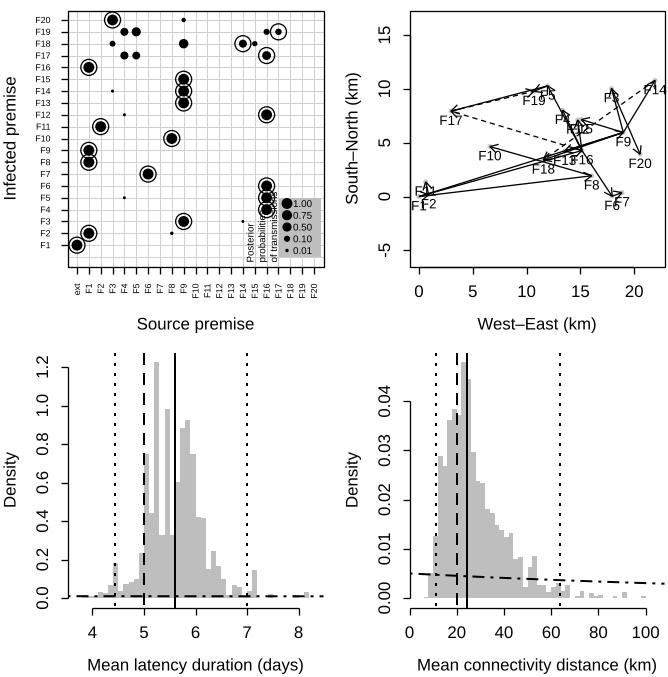
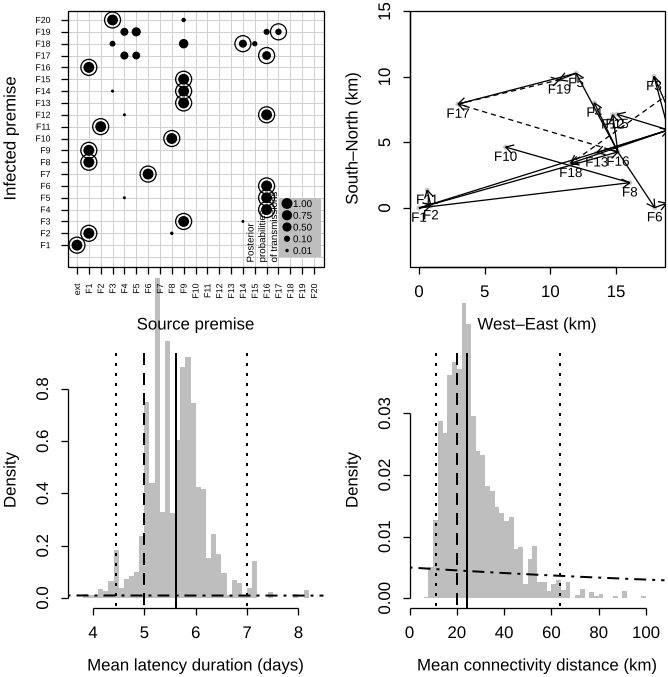
PMC3499255: Figs 2-4 on the paper's own axes
Every map and histogram now uses the axis limits measured from the
published ticks, so the scales are the same as the paper's: ticks land
within 1 px of the published ones on all 18 axes. Tick marks follow R's
axis code (GEPretty biases) and labels R's one-"m" skip rule, which
gives the paper's exact labels. What falls outside the paper's axes is
counted and recorded in the README.

Claude-Session: https://claude.ai/code/session_01SYtZvq5bybDnzbwBE6x4jU

diff --git a/PMC3499255/figure-reproduction/pipeline/render.py b/PMC3499255/figure-reproduction/pipeline/render.py
@@ -24,8 +24,8 @@ on the data, so that ours and the published figure overlay:
                      and printed, not drawn; ``xlim = range(breaks)``,
                      ``ylim = c(0, max(density))`` (the published height unless
                      ours is taller), R's 4% extension, axis ticks
-                     from ``pretty(usr, 5)`` with R's label formatting and a
-                     skipped label wherever two would collide; the exponential
+                     from R's axis code (GEPretty on usr) with R's label
+                     formatting, a label skipped within one "m" of the last; the exponential
                      priors: mean latency beta1 ~ Exp(mean 100) and mean distance
                      2 * alpha2 with alpha2 ~ Exp(mean 100), i.e. Exp(mean 200).
 
@@ -92,7 +92,10 @@ CONFIG = {
         map=dict(kind="km"),             # simulated: coordinates are already km
         label_pos=None,                  # below every point
         # histogram breaks (lo, hi, width) and max density, read from the published axes
-        hist=dict(lat=(3.7, 8.3, 0.1, 0.904), dist=(4.0, 104.0, 2.0, 0.0384)),
+        hist=dict(lat=(3.7, 8.3, 0.1), dist=(4.0, 104.0, 2.0)),
+        # axis limits (usr: xmin, xmax, ymin, ymax) of the map and the two histograms
+        usr=dict(TR=(-0.7234, 18.693, -4.466, 15.076), BL=(3.504, 8.487, -0.0364, 0.9397),
+                 BR=(0.0, 107.822, -0.0015, 0.0399)),
         show_true=True,
     ),
     "fig3": dict(
@@ -102,10 +105,12 @@ CONFIG = {
         order=["IP1b", "IP2b", "IP5", "IP4b", "IP3b", "IP3c", "IP6b", "IP7", "IP8"],
         # first premise (IP1b) in the paper's map km, and 1/cos(mean latitude)
         map=dict(kind="lonlat", first=(0.685, -1.339), east_scale=1.60236,
-                 ylabel_every=2),
+                 xlabel_every=2, ylabel_every=2),
         label_pos={"IP1b": (3, -8.0), "IP2b": 4, "IP3b": 4, "IP3c": 4, "IP4b": 1,
                    "IP5": 4, "IP6b": 2, "IP7": 2, "IP8": 4},
-        hist=dict(lat=(0.0, 220.0, 5.0, 0.0777), dist=(0.0, 155.0, 5.0, 0.0497)),
+        hist=dict(lat=(0.0, 220.0, 5.0), dist=(0.0, 155.0, 5.0)),
+        usr=dict(TR=(-2.258, 21.244, -2.207, 21.241), BL=(-9.324, 228.438, -0.003, 0.081),
+                 BR=(-6.565, 160.832, -0.0019, 0.0518)),
         show_true=False,
     ),
     "fig4": dict(
@@ -117,7 +122,9 @@ CONFIG = {
                  xlabel_every=2, ylabel_every=2),
         label_pos={"K": 3, "L": 4, "D": 4, "M": 1, "O": 1, "F": 3, "G": 2,
                    "I": 1, "J": 1, "E": 1, "C": 1, "P": 1},
-        hist=dict(lat=(10.0, 68.0, 1.0, 0.120), dist=(4.0, 142.0, 2.0, 0.0293)),
+        hist=dict(lat=(10.0, 68.0, 1.0), dist=(4.0, 142.0, 2.0)),
+        usr=dict(TR=(-1.171, 23.707, -4.254, 20.782), BL=(7.791, 70.368, -0.0046, 0.1251),
+                 BR=(-1.754, 147.307, -0.0011, 0.0305)),
         show_true=False,
     ),
 }
@@ -125,11 +132,15 @@ CONFIG = {
 
 # ------------------------------------------------------------------ R rules
 
-def r_pretty(lo: float, hi: float, n: int = 5, min_n: int | None = None) -> np.ndarray:
-    """R's pretty(): about n+1 equally spaced round values covering [lo, hi]."""
+def r_pretty(lo: float, hi: float, n: int = 5, min_n: int | None = None,
+             h: float = 1.5, h5: float = 0.5 + 1.5 * 1.5) -> np.ndarray:
+    """R's pretty(): about n+1 equally spaced round values covering [lo, hi].
+
+    h and h5 are its rounding biases: pretty() uses 1.5 and 2.75; the axis code
+    (GEPretty, which places the tick marks) uses 0.8 and 1.7.
+    """
     if min_n is None:
         min_n = n // 3
-    h, h5 = 1.5, 0.5 + 1.5 * 1.5
     dx = hi - lo
     if dx == 0 and hi == 0:
         cell, i_small = 1.0, True
@@ -181,8 +192,8 @@ def r_extend(lo: float, hi: float) -> tuple[float, float]:
 
 
 def r_axticks(u0: float, u1: float) -> np.ndarray:
-    """axTicks(): pretty(usr) kept inside usr."""
-    t = r_pretty(u0, u1, 5)
+    """The tick marks R's axis() draws: GEPretty on usr, kept inside usr."""
+    t = r_pretty(u0, u1, 5, min_n=1, h=0.8, h5=1.7)
     fuzz = 1e-7 * (u1 - u0)
     return t[(t >= u0 - fuzz) & (t <= u1 + fuzz)]
 
@@ -239,7 +250,11 @@ def _label_width(s: str, size: float) -> float:
     return sum(w.get(c, 0.556) for c in s) * size
 
 
-def _side1(p: Panel, at, labels, title, gap=5.5, size=EM, right_slack=1.0, left_slack=6.0, every=1):
+# R skips an axis label that comes closer than the width of one "m" to the last label it drew
+GAP = 0.833 * EM
+
+
+def _side1(p: Panel, at, labels, title, gap=GAP, size=EM, every=1):
     ax = p.ax
     xs = p.px(at)
     _line(ax, [xs[0], xs[-1]], [p.y1, p.y1])
@@ -249,14 +264,14 @@ def _side1(p: Panel, at, labels, title, gap=5.5, size=EM, right_slack=1.0, left_
         if i % every:
             continue
         w = _label_width(lab, size)
-        if x - w / 2 < last + gap or x + w / 2 > p.x1 + right_slack or x - w / 2 < p.x0 - left_slack:
+        if x - w / 2 < last + gap:
             continue
         _text(ax, x, p.y1 + LINE_TICKLAB, lab, size, ha="center", va="baseline")
         last = x + w / 2
     _text(ax, (p.x0 + p.x1) / 2, p.y1 + LINE_TITLE, title, size, ha="center", va="baseline")
 
 
-def _side2(p: Panel, at, labels, title, gap=8.0, size=EM, every=1):
+def _side2(p: Panel, at, labels, title, gap=GAP, size=EM, every=1):
     ax = p.ax
     ys = p.py(at)
     _line(ax, [p.x0, p.x0], [ys[0], ys[-1]])
@@ -362,10 +377,16 @@ def _map_panel(ax, box, post, cfg, true_tree):
     scale = min(w / (xmax - xmin), h / (ymax - ymin))
     xadd = 0.5 * (w / scale - (xmax - xmin))
     yadd = 0.5 * (h / scale - (ymax - ymin))
-    p = Panel(ax, box, (*r_extend(xmin - xadd, xmax + xadd), *r_extend(ymin - yadd, ymax + yadd)))
+    usr = (*r_extend(xmin - xadd, xmax + xadd), *r_extend(ymin - yadd, ymax + yadd))
+    usr = cfg["usr"]["TR"] if "usr" in cfg else usr      # the paper's axes
+    p = Panel(ax, box, usr)
     clip = p.clip()
     X, Y = p.px(x), p.py(y)
+    outside = [nm for nm, xi, yi in zip(names, x, y)
+               if not (usr[0] <= xi <= usr[1] and usr[2] <= yi <= usr[3])]
     for i in range(len(names)):
+        if names[i] in outside:
+            continue
         ax.add_patch(Circle((X[i], Y[i]), 2.5, color=POINT, lw=0, zorder=2))
     best = post["best_tree"]
     for i, s in enumerate(best):
@@ -377,6 +398,8 @@ def _map_panel(ax, box, post, cfg, true_tree):
                 _arrow(ax, X[s], Y[s], X[i], Y[i], ls=(0, (4, 3)), clip=clip)
     off = 0.3 * EM_MAP
     for i, nm in enumerate(names):
+        if nm in outside:
+            continue
         pos = (cfg["label_pos"] or {}).get(nm, 1)
         pos, dx = pos if isinstance(pos, tuple) else (pos, 0.0)   # (R pos, pixel nudge)
         X_i = X[i] + dx
@@ -392,26 +415,29 @@ def _map_panel(ax, box, post, cfg, true_tree):
     xt, yt = r_axticks(p.u[0], p.u[1]), r_axticks(p.u[2], p.u[3])
     _side1(p, xt, r_labels(xt), "West–East (km)", every=mcfg.get("xlabel_every", 1))
     _side2(p, yt, r_labels(yt), "South–North (km)", every=mcfg.get("ylabel_every", 1))
+    return dict(outside=outside, n=len(names))
 
 
 def _breaks(s, pub):
-    """The paper's breaks and height; without them R's default here, pretty(range(x), 50)."""
+    """The paper's breaks; without them R's default here, pretty(range(x), 50)."""
     if pub is None:
-        return r_pretty(s.min(), s.max(), 50, min_n=1), 0.0
-    lo, hi, w, ymax = pub
-    return lo + w * np.arange(round((hi - lo) / w) + 1), ymax
+        return r_pretty(s.min(), s.max(), 50, min_n=1)
+    lo, hi, w = pub
+    return lo + w * np.arange(round((hi - lo) / w) + 1)
 
 
-def _hist_panel(ax, box, samples, xlabel, median, lo, hi, prior_mean, pub=None, true_val=None):
+def _hist_panel(ax, box, samples, xlabel, median, lo, hi, prior_mean, pub=None, usr=None,
+                true_val=None):
     s = np.asarray(samples, float)
-    br, ymax = _breaks(s, pub)
-    # densities over all our samples; any outside the paper's axis are counted, not drawn
+    br = _breaks(s, pub)
+    # densities over all our samples; samples outside the paper's breaks and bars above the
+    # paper's axis are counted (and printed), not drawn
     counts, _ = np.histogram(s, bins=br)
     dens = counts / (len(s) * np.diff(br))
     outside = int(np.sum((s < br[0]) | (s > br[-1])))
-    # ylim = c(0, max(density)) as R draws it; the published height unless ours is taller
-    ymax = max(ymax, dens.max())
-    p = Panel(ax, box, (*r_extend(br[0], br[-1]), *r_extend(0.0, ymax)))
+    if usr is None:   # R's own limits: xlim = range(breaks), ylim = c(0, max(density))
+        usr = (*r_extend(br[0], br[-1]), *r_extend(0.0, dens.max()))
+    p = Panel(ax, box, usr)
     clip = p.clip()
     for a, b, d in zip(br[:-1], br[1:], dens):
         if d > 0:
@@ -430,7 +456,8 @@ def _hist_panel(ax, box, samples, xlabel, median, lo, hi, prior_mean, pub=None, 
     _side1(p, xt, r_labels(xt), xlabel)
     _side2(p, yt, r_labels(yt), "Density")
     return dict(outside=outside, n=len(s), axis=[float(br[0]), float(br[-1])],
-                ymax=float(ymax), ours_max_density=float(dens.max()))
+                ymax=float(usr[3]), ours_max_density=float(dens.max()),
+                bars_above=int(np.sum(dens > usr[3])))
 
 
 def render(post, out_ours, key):
@@ -446,14 +473,13 @@ def render(post, out_ours, key):
     ax.set_ylim(H, 0)
     ax.axis("off")
     _dot_panel(ax, cfg["TL"], post, order, true_tree)
-    _map_panel(ax, cfg["TR"], post, cfg, true_tree)
+    notes = {"map": _map_panel(ax, cfg["TR"], post, cfg, true_tree)}
     lat, dist = post["mean_latency"], post["mean_distance"]
-    notes = {}
     notes["mean_latency"] = _hist_panel(ax, cfg["BL"], post["samples"]["mean_latency"], "Mean latency duration (days)",
-                lat["median"], lat["lo"], lat["hi"], 100.0, cfg["hist"]["lat"],
+                lat["median"], lat["lo"], lat["hi"], 100.0, cfg["hist"]["lat"], cfg["usr"]["BL"],
                 true_val=truth["mean_latency"] if true_tree is not None else None)
     notes["mean_distance"] = _hist_panel(ax, cfg["BR"], post["samples"]["mean_distance"], "Mean connectivity distance (km)",
-                dist["median"], dist["lo"], dist["hi"], 200.0, cfg["hist"]["dist"],
+                dist["median"], dist["lo"], dist["hi"], 200.0, cfg["hist"]["dist"], cfg["usr"]["BR"],
                 true_val=truth["mean_distance"] if true_tree is not None else None)
     fig.savefig(out_ours, dpi=72, facecolor="white")
     plt.close(fig)
@@ -485,9 +511,13 @@ def main():
     args = ap.parse_args()
     post = json.load(open(args.posterior))
     for k, v in render(post, args.ours, args.key).items():
+        if k == "map":
+            print(f"{args.key} map: {len(v['outside'])} of {v['n']} premises outside the paper's axes"
+                  + (f" ({', '.join(v['outside'])})" if v["outside"] else ""))
+            continue
         print(f"{args.key} {k}: {v['outside']} of {v['n']} samples outside the paper's axis "
-              f"{v['axis'][0]:g}-{v['axis'][1]:g}; height {v['ymax']:.4g} "
-              f"(ours {v['ours_max_density']:.4g})")
+              f"{v['axis'][0]:g}-{v['axis'][1]:g}; {v['bars_above']} bars above its height "
+              f"{v['ymax']:.4g} (our tallest {v['ours_max_density']:.4g})")
     overlay(args.published, args.ours, args.overlay)
     print("wrote", args.ours, args.overlay)
 

diff --git a/PMC3499255/figure-reproduction/README.md b/PMC3499255/figure-reproduction/README.md
@@ -98,17 +98,23 @@ its tutorial. `RENDER` draws Figs 2-4. `RESULTS` merges everything into
   rendering is not bit-reproducible); the numbers behind them are checked, and
   `compare_runs` ignores `*.png`.
 - **How the figures are drawn.** `render.py` redraws Figs 2-4 the way the paper
-  drew them in R base graphics, on each published JPEG's pixel grid, so ours
-  overlays the original: the panel boxes measured from the JPEG; the dot plot in
-  the paper's row order with dot diameter 10.9 px x p^(1/4) and the paper's legend;
-  the maps with `asp = 1` on uncorrected longitude and latitude (109.8 km per
-  degree and an origin read from the published ticks; the model's own distances
-  stay cosine-corrected); the histograms on the paper's breaks with R's axis rules;
-  the priors Exp(mean 100) for the mean latency and Exp(mean 200) for the mean
-  distance (2 x alpha2). The 2007 row order, the map scale and origin and the side
-  of each map label are read from the figures. A few of our posterior samples fall
-  outside the paper's histogram axes and are not drawn: Fig. 2 latency 2 and
-  distance 3 of 3,000, Fig. 4 latency 13 of 3,000 (`render.py` prints the counts).
+  drew them in R base graphics, on each published JPEG's pixel grid, with every
+  map and histogram on the paper's own axes (limits measured from the published
+  ticks), so the scales are the same and ours overlays the original: the panel
+  boxes measured from the JPEG; the dot plot in the paper's row order with dot
+  diameter 10.9 px x p^(1/4) and the paper's legend; the maps on uncorrected
+  longitude and latitude (109.8 km per degree and an origin read from the published
+  ticks; the model's own distances stay cosine-corrected); the histograms on the
+  paper's breaks; tick marks and labels by R's axis rules; the priors Exp(mean 100)
+  for the mean latency and Exp(mean 200) for the mean distance (2 x alpha2). The
+  2007 row order, the axis limits, the map scale and origin and the side of each
+  map label are read from the figures. What falls outside the paper's axes is not
+  drawn (`render.py` prints the counts): Fig. 2 map 4 of 20 premises (F7, F9, F14,
+  F20; a different simulated outbreak), Fig. 2 latency 2 and distance 3 of 3,000
+  samples, Fig. 4 latency 13 of 3,000; and the tops of a few bars taller than the
+  paper's axis are cut at it (Fig. 2: 2 latency and 2 distance bars; Fig. 3: 1
+  distance bar; Fig. 4: 2 distance bars), because our 3,000 samples per run give a
+  noisier histogram than the paper's 5x10^5 iterations.
 - **Not attempted:** the 100-premise simulation (about a month of compute), Fig. S14
   (external TCS program) and the lesion-age sensitivity analysis (prior variances
   given only as images). See `results.json`.
